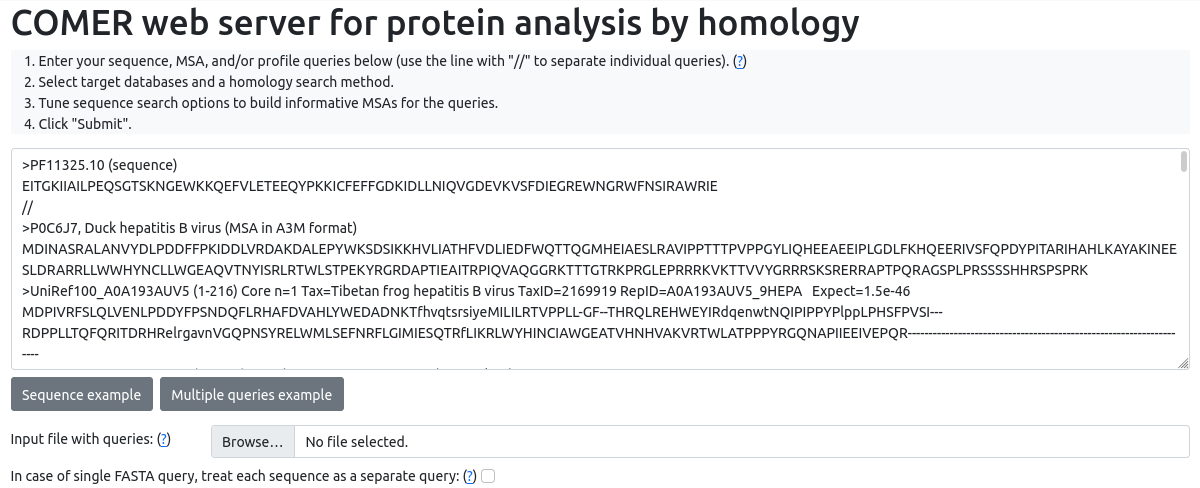
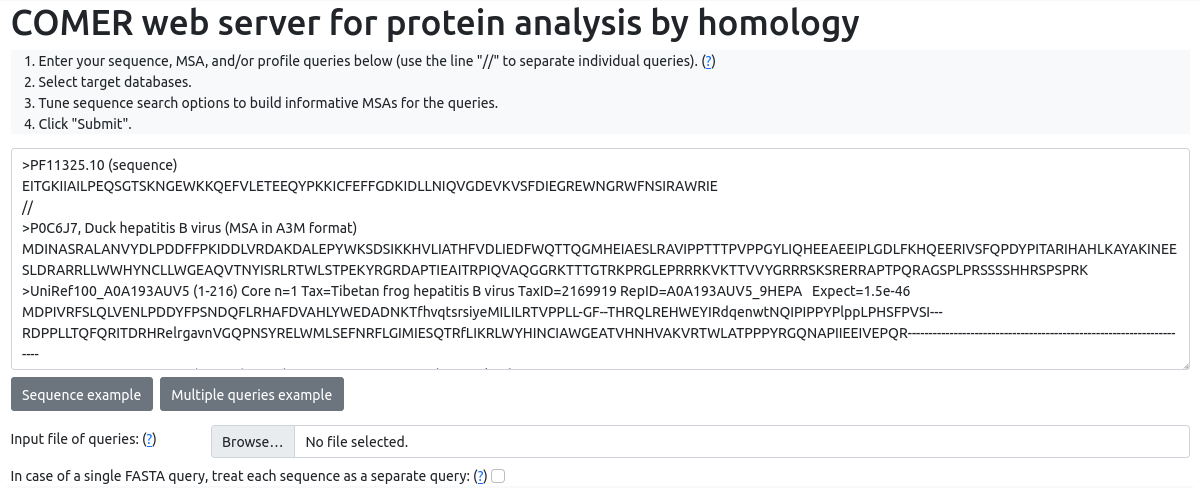
Update help and tutorial to new developments
modified:   static/img/help/comer_web_server.png
	modified:   static/img/tutorial/advanced_options.png
	modified:   static/img/tutorial/main_options.png
	modified:   static/img/tutorial/modeling_results.png
	modified:   static/img/tutorial/queries.png
	modified:   templates/search/input.html
	modified:   templates/site/help.html

diff --git a/templates/site/help.html b/templates/site/help.html
@@ -6,7 +6,7 @@
 <h2>Table of contents</h2>
 <ol>
     <li><a href="#help_introduction">Introduction</a></li>
-    <li><a href="#help_homology_search">Homology search methods</a></li>
+    <li><a href="#help_homology_search">Homology search</a></li>
     <li><a href="#help_workflow">Workflow</a></li>
     <li><a href="#help_input">Input</a></li>
     <li><a href="#help_profile_construction">Profile construction</a></li>
@@ -22,45 +22,41 @@ It is powered by the COMER2 homology search engine. COMER2 is a sensitive and sp
 The COMER2 software architecture allows for simultaneously running multiple instances of homology search on the same GPU independently.
 This property allows the webserver to efficiently exploit computational resources and distribute workload across multiple dedicated GPUs.
 </p>
-<h2 id="help_homology_search">Homology search methods</h2>
+<h2 id="help_homology_search">Homology search</h2>
 <p>
-The server allows for an analysis of the results of two tools: COMER2 and COTHER.
-Both tools are profile-profile comparison and alignment methods whose homology search is based on comparing the query profile (sequence family) model with the entries (profiles) of selected database(s).
-And both tools employ the fast GPU-accelerated search engine originally implemented in COMER2.
-The difference between COMER2 and the new threading method COTHER (currently unpublished) is that COTHER compares a profile with a protein structure.
-In addition to divergence measures between profiles, this kind of comparison rests on evaluating how closely inter-residue distances predicted for the query match the distances observed in a structure.
-Deep convolutional neural networks are used to predict inter-residue distances for the query [3].
+The server allows for an analysis of the results of COMER2.
+COMER2 is a profile-profile comparison and alignment method whose homology search is based on comparing the query profile (sequence family) model with the entries (profiles) of selected database(s).
+It employs a fast GPU-accelerated search engine.
 </p>
 <h2 id="help_workflow">Workflow</h2>
 <p>
-The workflow for using the tools COMER2 and COTHER in the webserver environment is identical (Fig. 1).
-The user is expected to enter her or his queries, select a tool and databases, adjust parameters if desired, and hit the Submit button.
-Information displaying the progress of the job will show up. The results will appear once the job jas finished.
-An e-mail with a link to the results will be sent if the e-mail address was provided by the user.
+The workflow for using the COMER2 tool in the webserver environment is shown in Fig. 1.
+The user is expected to enter her or his queries, select databases, adjust parameters if desired, and hit the Submit button.
+Information displaying the progress of the job will show up.
+The results will appear once the job has finished.
+An e-mail with a link to the results will be sent if the e-mail address was provided by the user. 
 </p>
 <figure>
     <img src="{% static 'img/help/comer_web_server.png' %}" alt="COMER web server" class="img-fluid border">
     <figcaption>Figure 1. Flowchart for the COMER web server</figcaption>
 </figure>
 <p>
-The user can provide sequences, plain and in FASTA format, MSAs in aligned FASTA, STOCKHOLM, and A3M formats, and COMER2 and COTHER profiles—all in the same input field.
+The user can provide sequences, plain and in FASTA format, MSAs in aligned FASTA, STOCKHOLM, and A3M formats, and COMER2 profiles—all in the same input field.
 The server automatically determines the format of input data.
 </p>
 <p>
 The COMER web server can be instructed to build informative and diverse MSAs for user queries (profiles excluded).
-In that case, the server performs additional sequence searches with user queries using HHblits [4], HMMER3 [5], or both and builds MSAs from statistically significant hits.
+In that case, the server performs additional sequence searches with user queries using HHblits [3], HMMER3 [4], or both and builds MSAs from statistically significant hits.
 When using both these tools, an MSA for each query results from combining sequence alignments produced independently by them, which is useful for query sequences with low homology.
 </p>
 <p>
 Each sequence and MSA corresponding to a user query is subjected to profile construction.
-Initially, COMER2 profiles are constructed, which include secondary structure (SS) predictions [6] made for query proteins.
-However, in the case of using COTHER for profile-profile search, the information in the COMER2 profiles and the cross-covariance matrices calculated from the query MSAs (and sequences) using the COMER2 software are further fed into the ROPIUS0 deep learning framework to predict inter-residue distances for the query proteins.
-COTHER profiles are then the COMER2 profiles augmented with predicted distances.
+COMER2 profiles include secondary structure (SS) predictions [5] made for query proteins.
 </p>
 <p>
-The format in which the results of a profile-profile search appear is the same for COMER2 and COTHER. Search results include for each user query a list of pairwise alignments between the query and a database sequence, both representing constructed profiles.
+The format in which the results of a profile-profile search appear includes for each user query a list of pairwise alignments between the query and a database sequence, both representing constructed profiles.
 Produced alignments are amenable to further analysis.
-Their different selection combinations for a query allow the user to construct different MSAs and generate 3D structural models by homology to detected proteins [7] in bulk when those protein sequences have a known structure.
+Their different selection combinations for a query allow the user to construct different MSAs and generate 3D structural models by homology to detected proteins [6] in bulk when those protein sequences have a known structure.
 </p>
 <h2 id="help_input">Input</h2>
 <p>
@@ -68,10 +64,6 @@ The user is allowed to enter multiple queries in different formats.
 Processing user queries in bulk removes the limitation of focusing on a single protein of interest at a time and allows the server to utilize computing power efficiently.
 Results will be provided by the server for each query.
 The number of queries in the input field is limited to 100 for COMER2 searches.
-The corresponding number for COTHER is 10.
-Also, the maximum allowed length of a COTHER profile model is 1000.
-If a query is in aligned FASTA format (see below), the number of residues of the first sequence should be less than this number.
-The COMER2 profile length is not constrained.
 Maximum size of queries in the text field is 5 MB, and maximum file size for upload of queries is 50 MB.
 </p>
 <p>
@@ -79,9 +71,7 @@ Individual queries are separated by the line "//".
 The format of a query is recognized automatically.
 Currently, these formats are supported for sequences: plain sequence and FASTA.
 A multiple sequence alignment (MSA) can be provided in these formats: aligned FASTA (FASTA with gaps "-" allowed), STOCKHOLM, and A3M.
-Also, the server recognizes COMER2 and COTHER profiles as individual queries.
-COMER2 and COTHER profiles cannot be used by these tools interchangeably.
-Therefore, COMER profiles will be ignored during a COTHER search, and COTHER profiles will be ignored during a COMER2 search.
+Also, the server recognizes COMER2 profiles as individual queries.
 </p>
 <p>An example of an input record containing multiple queries is shown below:</p>
 <pre>
@@ -119,10 +109,10 @@ MARGSGAGGGGGGGGGGLELSV-GVGG---GGG--------A-RGG----GG-G-E-A--AAAV----ETA---AP-I--
 <p>can be configured to represent three different queries (sequences in the MSA).</p>
 <h2 id="help_profile_construction">Profile construction</h2>
 <p>
-The COMER2 and COTHER profile are constructed from an MSA.
+The COMER2 profile is constructed from an MSA.
 A profile and an MSA can be provided directly (see Input).
 Otherwise, or optionally in the case of MSAs, the query is searched in sequence database(s) to build an MSA.
-Sequence search can be configured to be conducted using either HHblits [4] or HMMER [5] or both.
+Sequence search can be configured to be conducted using either HHblits [3] or HMMER [4] or both.
 The latter means that HHblits and HMMER are used independently, and their resulting pairwise sequence alignments are combined into a final MSA.
 Note that if an MSA provided as a query is to be searched for, it first undergoes (HHblits and/or HMMER) profile construction followed by a profile-to-sequence search.
 </p>
@@ -135,16 +125,14 @@ Note that if an MSA provided as a query is to be searched for, it first undergoe
     <li>UniProtKB/Swiss-Prot filtered to 90% sequence identity.</li>
 </ul>
 <p>Multiple databases can be selected (Ctrl key + Mouse's left-click) before submitting a job.</p>
-<p>The PDB70 database of COTHER profiles is available for COTHER search by threading.</p>
 <h2 id="help_results">Results and supported services</h2>
 <p>
-The format of COMER2 and COTHER results is the same.
+The format of COMER2 results is as follows.
 First, the list of links to the results for each query is displayed.
 By clicking on the links, the detailed results for individual queries are shown (Fig. 2).
 </p>
 <p>
-Results show the list of pairwise profile-profile (COMER) or profile-structure (COTHER) alignments.
-The formats of alignments produced by both tools are equivalent.
+Results show the list of pairwise profile-profile (COMER) alignments.
 </p>
 <figure>
     <img src="{% static 'img/help/detailed_results.png' %}" alt="Query results" class="img-fluid border">
@@ -177,13 +165,13 @@ The original input, final MSA, profile, log files, and the result file in JSON f
 </p>
 <p>
 The COMER web server offers services at the sequence, structure, and function levels.
-At the sequence level, alignments produced by COMER2 or COTHER can be selected individually or as a group for building an MSA based on accurate profile-profile alignments.
+At the sequence level, alignments produced by COMER2 can be selected individually or as a group for building an MSA based on accurate profile-profile alignments.
 The latter option is particularly useful when the number of produced alignments is large, and only their subset with an E-value within a given interval is of interest.
 Visualization of a resulting MSA allows for interactive analysis of aligned sequences.
 </p>
 <p>
-Structural analysis is possible through 3D structural model generation with Modeller [7] using the structures of identified proteins as templates and produced alignments as restraints.
-A multiple selection option allows the user to generate one model using multiple templates (up to 7) or multiple models (currently up to 100), one for each selected alignment, with one click of a button.
+Structural analysis is possible through 3D structural model generation with Modeller [6] using the structures of identified proteins as templates and produced alignments as restraints.
+A multiple selection option allows the user to generate one model using multiple templates (up to 7) or multiple models (currently up to 15), one for each selected alignment, with one click of a button.
 Interactive visual analysis of generated models is maintained.
 </p>
 <p>
@@ -198,8 +186,8 @@ Once the results are ready, a visualization layer is added to depict results gra
 <h2 id="help_limits">Limits</h2>
 <ul>
     <li>Maximum number of queries in the input field for COMER searches = 100.</li>
-    <li>Maximum number of queries in the input field for COTHER = 10.</li>
-    <li>Maximum query length (corresponding to the COTHER profile length) when using COTHER = 1000.</li>
+    {# <li>Maximum number of queries in the input field for COTHER = 10.</li> #}
+    {# <li>Maximum query length (corresponding to the COTHER profile length) when using COTHER = 1000.</li> #}
     <li>Maximum number of single-template 3D structural models for generating them simultaneously = 15.</li>
     <li>Maximum number of structural templates for one 3D model = 7.</li>
 </ul>
@@ -207,7 +195,6 @@ Once the results are ready, a visualization layer is added to depict results gra
 <ol>
     <li>Margelevičius M. Bayesian nonparametrics in protein remote homology search. <a href="https://doi.org/10.1093/bioinformatics/btw213">Bioinformatics. 2016;32(18):2744-52</a>.</li>
     <li>Margelevičius M. COMER2: GPU-accelerated sensitive and specific homology searches. <a href="https://doi.org/10.1093/bioinformatics/btaa185">Bioinformatics. 2020;36(11):3570-3572</a>.</li>
-    <li>Margelevičius M. ROPIUS0: A deep learning-based protocol for protein structure prediction and model selection and its performance in CASP14. <a href="https://doi.org/10.1101/2021.06.22.449457">bioRxiv. 2021.06.22.449457</a>.</li>
     <li>Remmert M, Biegert A, Hauser A, Söding J. HHblits: lightning-fast iterative protein sequence searching by HMM-HMM alignment. <a href="https://doi.org/10.1038/nmeth.1818">Nat Methods. 2011;9(2):173-5</a>.</li>
     <li>Eddy SR. Accelerated Profile HMM Searches. <a href="https://doi.org/10.1371/journal.pcbi.1002195">PLoS Comput Biol. 2011;7(10):e1002195</a>.</li>
     <li>Jones D. Protein secondary structure prediction based on position-specific scoring matrices. <a href="https://doi.org/10.1006/jmbi.1999.3091">J Mol Biol 1999;292(2):195–202</a>.</li>

diff --git a/templates/search/input.html b/templates/search/input.html
@@ -52,9 +52,9 @@
 </div>
 <div class="row my-2 align-items-center">
     <div class="col-12">{{ form.email.errors }}</div>
-    <div class="col-sm-2 col-form-label">{{ form.email.label_tag }} {{ 'email_help'|help_tooltip_questionmark }} </div><div class="col-sm-10">{{ form.email }}</div>
+    <div class="col-xxl-2 col-lg-3 col-md-4 col-sm-6 col-form-label">{{ form.email.label_tag }} {{ 'email_help'|help_tooltip_questionmark }} </div><div class="col-xxl-10 col-lg-9 col-md-8 col-sm-6">{{ form.email }}</div>
     {{ 'email_help'|help_tooltip:'Optionally, provide an e-mail address which will then be used to send a notification upon job completion.' }}
-    <div class="col-sm-2 col-form-label">{{ form.description.label_tag }} {{ 'description_help'|help_tooltip_questionmark }} </div><div class="col-sm-10">{{ form.description }}</div>
+    <div class="col-xxl-2 col-lg-3 col-md-4 col-sm-6 col-form-label">{{ form.description.label_tag }} {{ 'description_help'|help_tooltip_questionmark }} </div><div class="col-xxl-10 col-lg-9 col-md-8 col-sm-6">{{ form.description }}</div>
     {{ 'description_help'|help_tooltip:'Optionally, provide a custom job description.' }}
 </div>
 <div class="dropdown-divider"></div>
